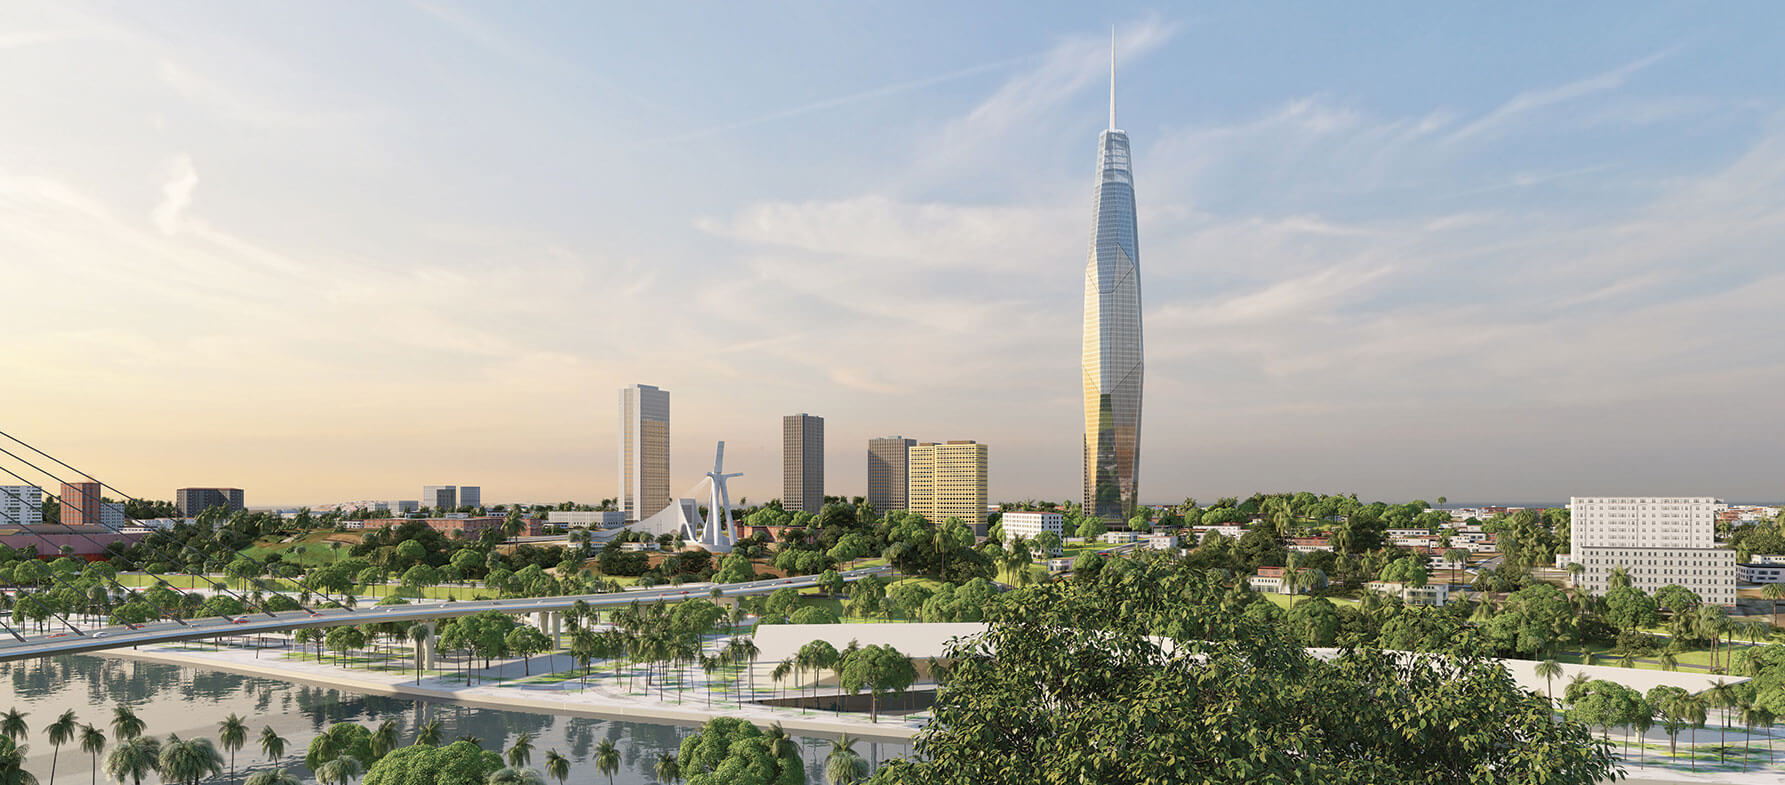
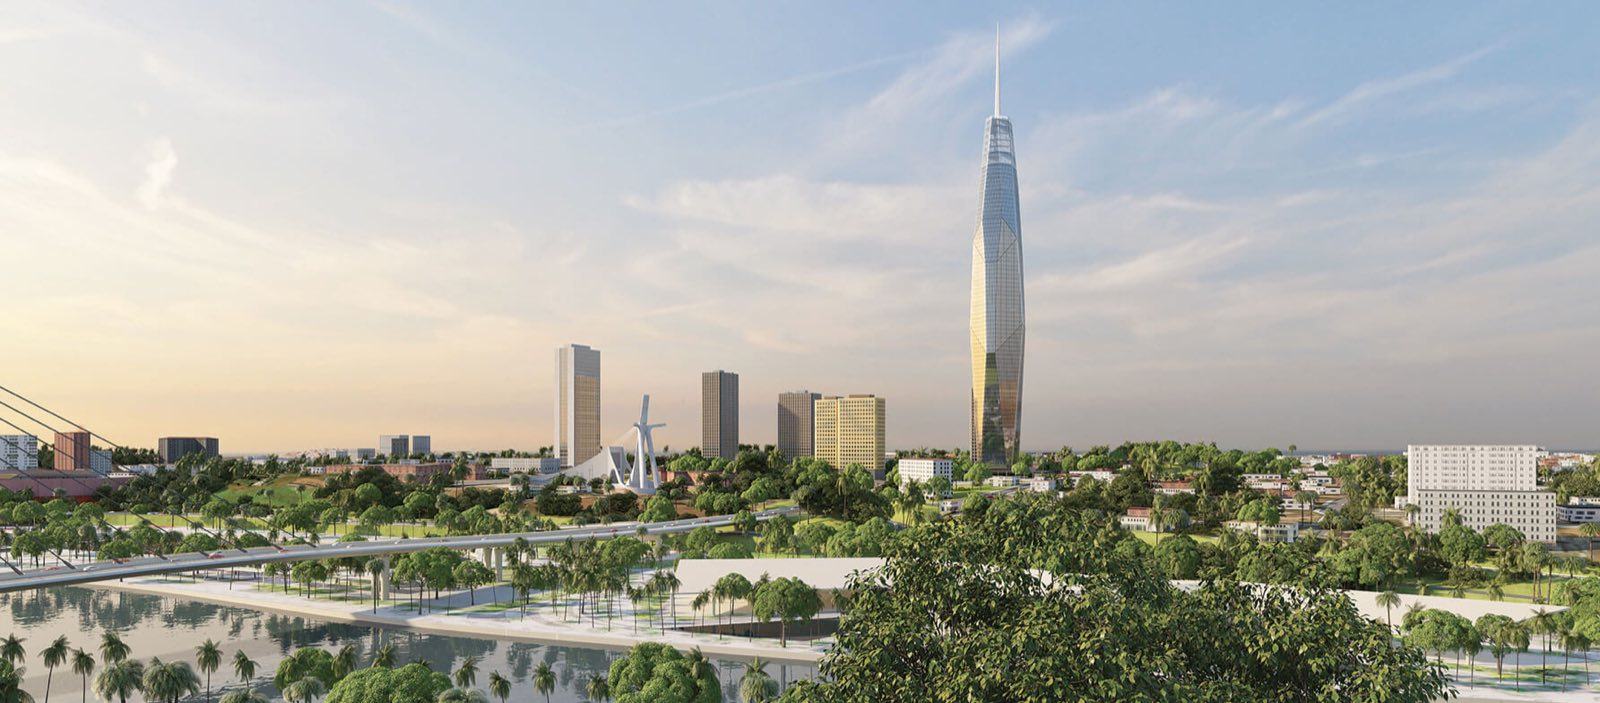
Optimise le poids des images (15,8 Mo -> 2,3 Mo)
- Redimensionne les photos haute resolution (max 1600 px, 1000 px pour
  les vignettes d'accueil) et reencode en JPEG q55
- Reduit le logo de 2390 px a 400 px (265 Ko -> 26 Ko)
- Ajoute loading=lazy / decoding=async aux <img> de <image-slot>
- Precharge le visuel hero pour ameliorer le LCP
- Sauvegarde les originaux dans _originaux/ (ignore par git)

diff --git a/image-slot.js b/image-slot.js
@@ -501,7 +501,8 @@
       root.innerHTML =
         '<style>' + stylesheet + '</style>' +
         '<div class="frame" part="frame">' +
-        '  <img part="image" alt="" draggable="false" style="display:none">' +
+        '  <img part="image" alt="" draggable="false" loading="lazy"' +
+        ' decoding="async" style="display:none">' +
         '  <div class="empty" part="empty">' + icon +
         '    <div class="cap"></div>' +
         '    <div class="sub">or <u>browse files</u></div></div>' +

diff --git a/index.html b/index.html
@@ -3,6 +3,7 @@
 <head>
 <meta charset="utf-8">
 <meta name="viewport" content="width=device-width, initial-scale=1">
+<link rel="preload" as="image" href="./images/accueil-hero.jpg" fetchpriority="high">
 <script src="./support.js"></script>
 </head>
 <body>
